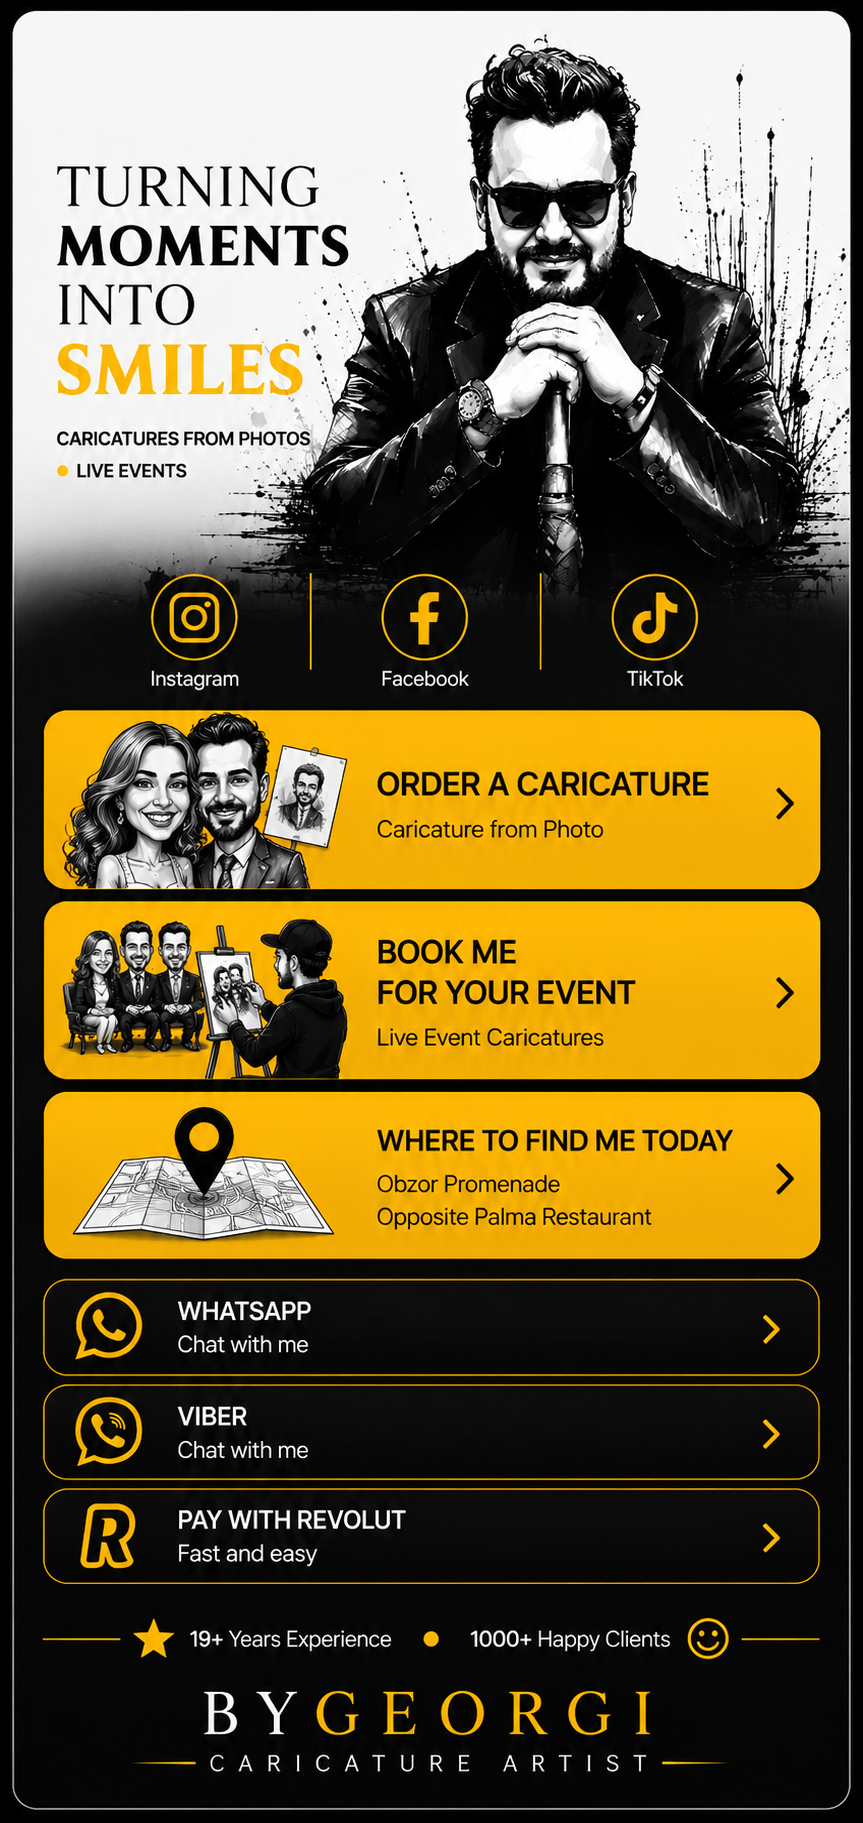
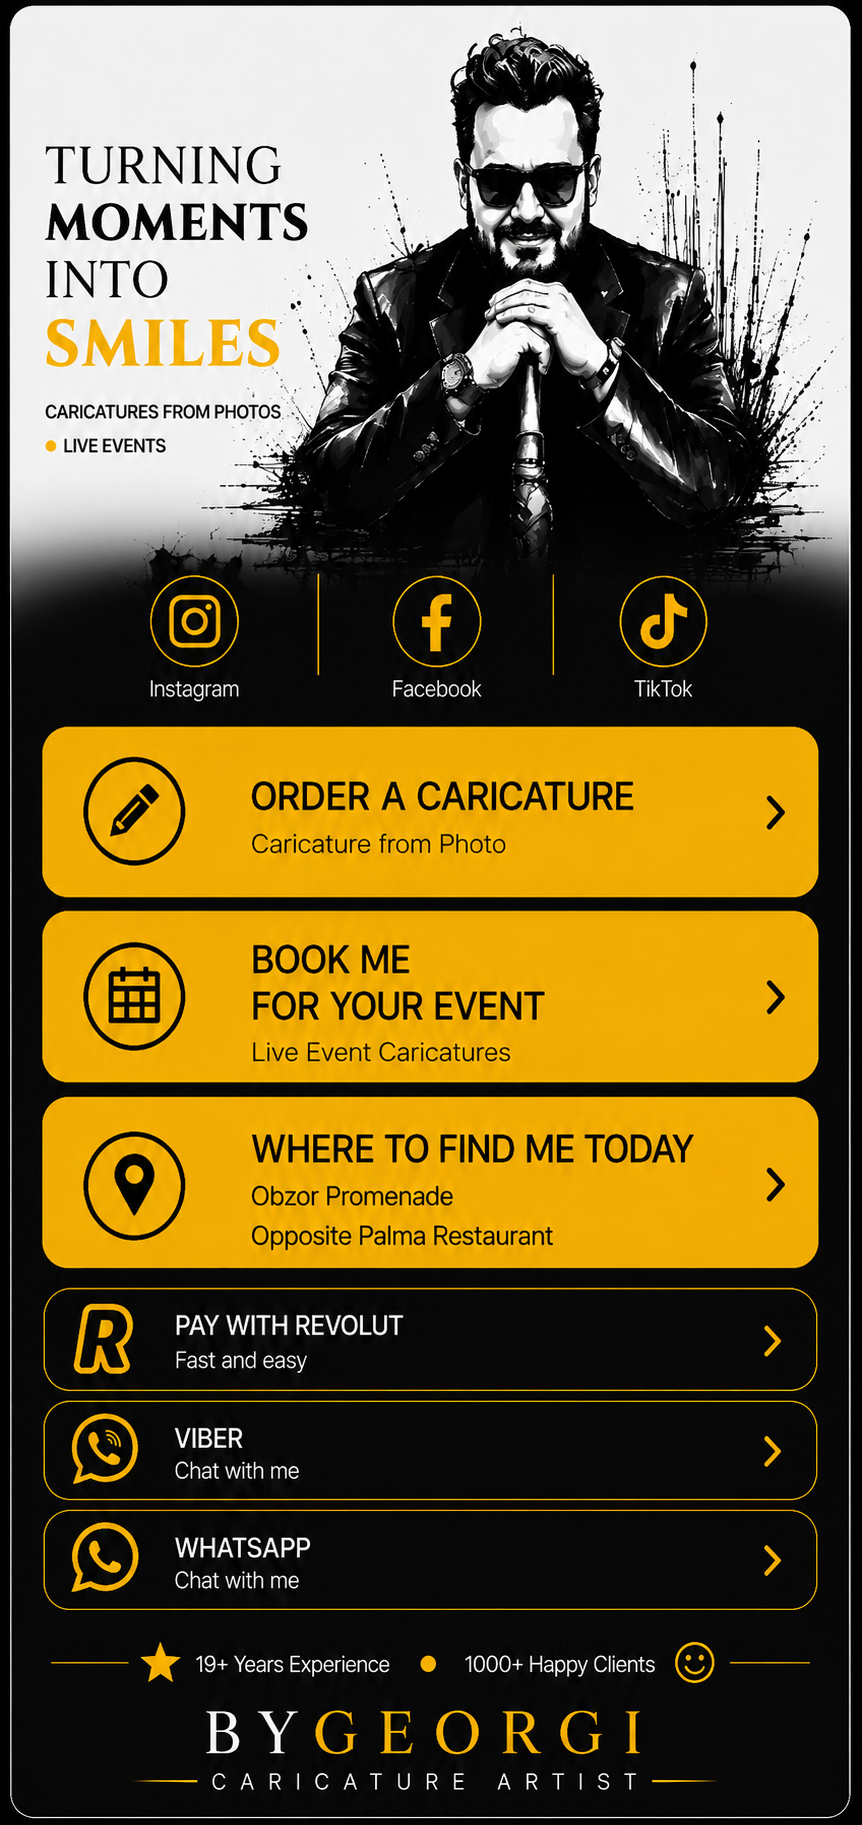
Add files via upload

Changed region(s): [[0.0, 0.0, 0.9954, 1.0], [0.4826, 0.8908, 0.5128, 0.9216]]

diff --git a/style.css b/style.css
@@ -10,7 +10,6 @@ html,body{
 body{
   font-family:Arial,Helvetica,sans-serif;
   overflow-x:hidden;
-  overflow-y:auto;
 }
 
 .page{
@@ -20,13 +19,12 @@ body{
   flex-direction:column;
   align-items:center;
   background:#050505;
-  padding:16px 0 36px;
+  padding:16px 0 32px;
 }
 
 .poster{
   position:relative;
   width:min(92vw,950px);
-  height:auto;
   line-height:0;
   overflow:hidden;
   background:#050505;
@@ -36,7 +34,7 @@ body{
     0 24px 65px rgba(0,0,0,.72);
 }
 
-.poster img{
+.poster>img{
   display:block;
   width:100%;
   height:auto;
@@ -44,41 +42,46 @@ body{
   -webkit-user-drag:none;
 }
 
-.tap{
+.hotspot{
   position:absolute;
   display:block;
-  border-radius:18px;
+  border-radius:20px;
   outline:none;
   -webkit-tap-highlight-color:transparent;
-  transition:transform .14s ease,box-shadow .14s ease,background-color .14s ease;
+  transition:
+    transform .14s ease,
+    box-shadow .14s ease,
+    background-color .14s ease;
 }
 
-.tap:hover,.tap:focus-visible{
-  background:rgba(255,190,0,.08);
+.hotspot:hover,
+.hotspot:focus-visible{
+  transform:translateY(-2px);
+  background:rgba(255,190,0,.07);
   box-shadow:
-    0 0 0 2px rgba(255,190,0,.62),
-    0 0 22px rgba(255,190,0,.34);
+    0 0 0 2px rgba(255,196,0,.78),
+    0 0 26px rgba(255,190,0,.34);
 }
 
-.tap:active{
-  transform:scale(.975);
-  background:rgba(255,190,0,.16);
-  box-shadow:
-    0 0 0 2px rgba(255,214,80,.9),
-    inset 0 4px 10px rgba(0,0,0,.25);
+.hotspot:active{
+  transform:scale(.982);
+  background:rgba(255,190,0,.11);
 }
 
-.instagram{left:10.5%;top:29.2%;width:23%;height:7.8%;border-radius:50%}
-.facebook{left:38.5%;top:29.2%;width:23%;height:7.8%;border-radius:50%}
-.tiktok{left:66.5%;top:29.2%;width:23%;height:7.8%;border-radius:50%}
+/* Social icons */
+.instagram{left:10.5%;top:30.1%;width:23%;height:7.6%;border-radius:50%}
+.facebook{left:38.5%;top:30.1%;width:23%;height:7.6%;border-radius:50%}
+.tiktok{left:66.5%;top:30.1%;width:23%;height:7.6%;border-radius:50%}
 
-.order{left:5%;top:38.0%;width:90%;height:9.7%;border-radius:24px}
-.event{left:5%;top:48.5%;width:90%;height:9.8%;border-radius:24px}
-.location{left:5%;top:59.0%;width:90%;height:9.5%;border-radius:24px}
+/* Yellow buttons */
+.order{left:4.5%;top:39.2%;width:91%;height:9.3%}
+.event{left:4.5%;top:49.1%;width:91%;height:9.5%}
+.location{left:4.5%;top:59.5%;width:91%;height:9.3%}
 
-.whatsapp{left:5%;top:69.6%;width:90%;height:5.3%;border-radius:18px}
-.viber{left:5%;top:75.3%;width:90%;height:5.3%;border-radius:18px}
-.revolut{left:5%;top:81.0%;width:90%;height:5.3%;border-radius:18px}
+/* Black buttons */
+.revolut{left:4.5%;top:69.9%;width:91%;height:5.7%}
+.viber{left:4.5%;top:76.2%;width:91%;height:5.7%}
+.whatsapp{left:4.5%;top:82.5%;width:91%;height:5.7%}
 
 .viber-note{
   display:none;
@@ -93,11 +96,11 @@ body{
   line-height:1.4;
   font-size:14px;
 }
+
 .viber-note.show{display:block}
 
-/* Phone: full width, normal vertical scrolling, no forced fitting */
 @media (max-width:699px){
-  .page{padding:0 0 20px}
+  .page{padding:0 0 18px}
   .poster{
     width:100vw;
     max-width:none;
@@ -106,7 +109,6 @@ body{
   }
 }
 
-/* Larger desktop */
 @media (min-width:1400px){
   .poster{width:min(86vw,1100px)}
 }

diff --git a/index.html b/index.html
@@ -6,48 +6,48 @@
   <meta name="theme-color" content="#050505">
   <meta name="description" content="ByGeorgi Caricature Artist — caricatures from photos and live event caricatures.">
   <title>ByGeorgi Caricature Artist</title>
-  <link rel="stylesheet" href="style.css?v=5">
+  <link rel="stylesheet" href="style.css?v=20">
 </head>
 <body>
   <main class="page">
     <section class="poster" aria-label="ByGeorgi Caricature Artist official links">
-      <img src="bygeorgi-final.png?v=5" alt="ByGeorgi Caricature Artist">
+      <img src="bygeorgi-final.png?v=20" alt="ByGeorgi Caricature Artist">
 
-      <a class="tap instagram"
+      <a class="hotspot instagram"
          href="https://www.instagram.com/baigeorgi.art?igsh=MTdtZnFmOXlsa2psNg=="
          target="_blank" rel="noopener" aria-label="Instagram"></a>
 
-      <a class="tap facebook"
+      <a class="hotspot facebook"
          href="https://www.facebook.com/share/1JyYSfYstJ/"
          target="_blank" rel="noopener" aria-label="Facebook"></a>
 
-      <a class="tap tiktok"
+      <a class="hotspot tiktok"
          href="https://www.tiktok.com/@baigeorgi.art?_r=1&_t=ZN-98Y97qYBbKY"
          target="_blank" rel="noopener" aria-label="TikTok"></a>
 
-      <a class="tap order"
+      <a class="hotspot order"
          href="https://wa.me/359876011667?text=Hello%21%20I%27d%20like%20to%20order%20a%20caricature%20from%20a%20photo."
          target="_blank" rel="noopener" aria-label="Order a caricature"></a>
 
-      <a class="tap event"
+      <a class="hotspot event"
          href="https://wa.me/359876011667?text=Hello%21%20I%27m%20looking%20for%20a%20live%20caricature%20artist%20for%20an%20event."
          target="_blank" rel="noopener" aria-label="Book Georgi for an event"></a>
 
-      <a class="tap location"
+      <a class="hotspot location"
          href="https://maps.app.goo.gl/JXkZZCQYhq88JQwD8?g_st=ac"
          target="_blank" rel="noopener" aria-label="Where to find Georgi today"></a>
 
-      <a class="tap whatsapp"
-         href="https://wa.me/359876011667"
-         target="_blank" rel="noopener" aria-label="Chat on WhatsApp"></a>
+      <a class="hotspot revolut"
+         href="https://revolut.me/georgi7o6y"
+         target="_blank" rel="noopener" aria-label="Pay with Revolut"></a>
 
-      <a class="tap viber"
+      <a class="hotspot viber"
          href="viber://chat?number=%2B359876011667"
          data-viber aria-label="Chat on Viber"></a>
 
-      <a class="tap revolut"
-         href="https://revolut.me/georgi7o6y"
-         target="_blank" rel="noopener" aria-label="Pay with Revolut"></a>
+      <a class="hotspot whatsapp"
+         href="https://wa.me/359876011667"
+         target="_blank" rel="noopener" aria-label="Chat on WhatsApp"></a>
     </section>
 
     <p class="viber-note" id="viberNote">
@@ -55,6 +55,6 @@
     </p>
   </main>
 
-  <script src="script.js?v=5"></script>
+  <script src="script.js?v=20"></script>
 </body>
 </html>
